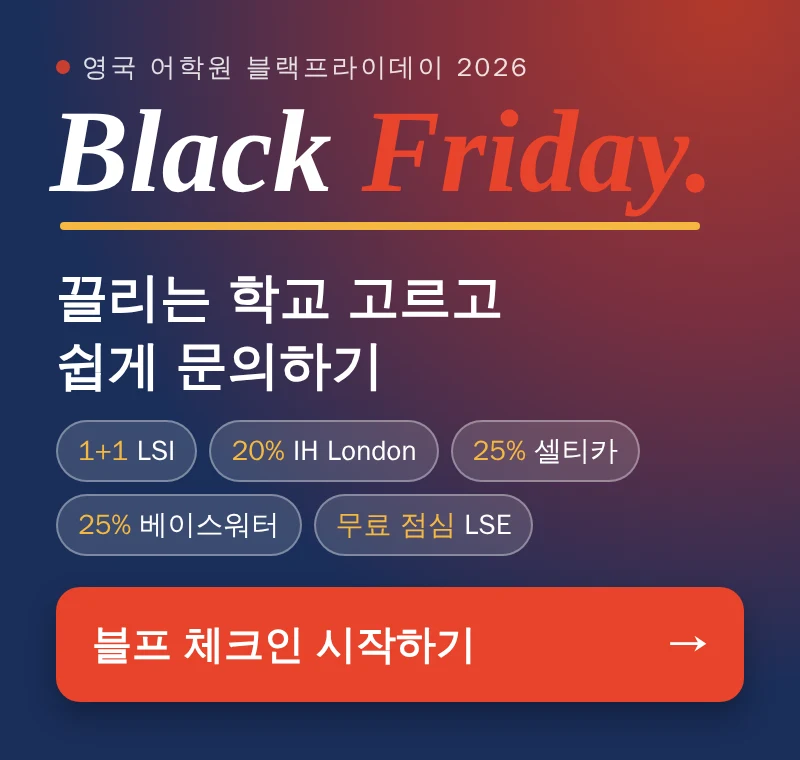
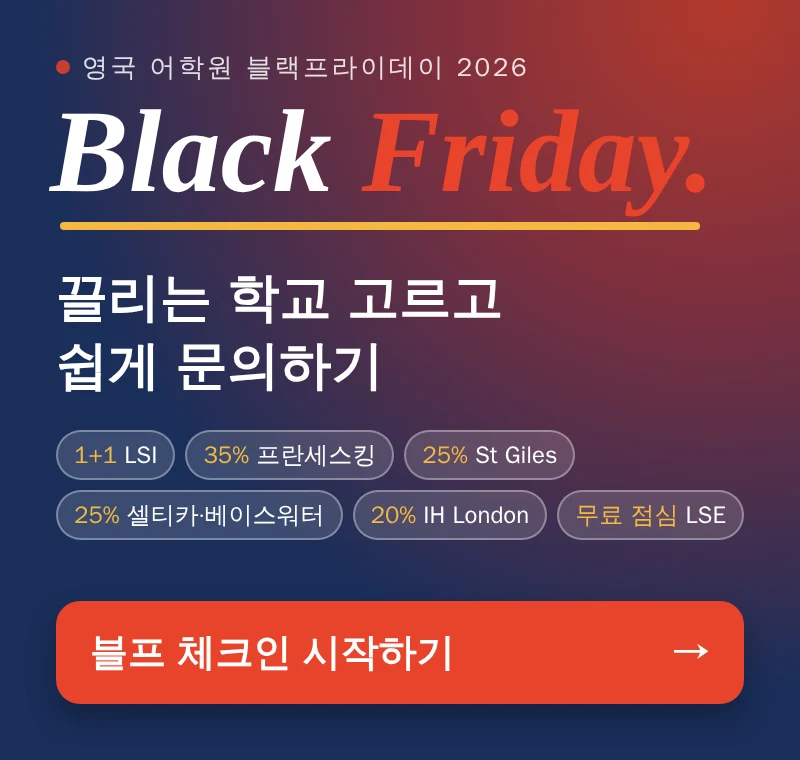
Black Friday check-in: add St Giles and Frances King
The note now covers seven schools. St Giles (20% up to 23 weeks, 25%
from 24 weeks, closes 11 December) and Frances King (35% on adult and
exam courses, closes 4 December) are added with their conditions in the
boarding-pass notes. Schools past their deadline move to the bottom and
are marked closed. Banners and the share image list all seven.

Claude-Session: https://claude.ai/code/session_01PvHDLwAHS7dQTTP1cZEh3g

Changed region(s): [[0.0625, 0.5447, 0.9375, 0.9382]]

diff --git a/black-friday/index.html b/black-friday/index.html
@@ -5,11 +5,11 @@
 <meta name="viewport" content="width=device-width,initial-scale=1,viewport-fit=cover">
 <meta name="robots" content="noindex,nofollow">
 <meta name="theme-color" content="#1A2E5A">
-<meta name="description" content="LSI·IH London·셀티카·베이스워터·런던 스쿨 오브 잉글리시 2026 블랙프라이데이 혜택 중 나에게 맞는 곳을 고르고, 상황을 남기면 신촌점이 조건을 확인해 드려요.">
+<meta name="description" content="LSI·St Giles·IH London·프란세스킹·셀티카·베이스워터·런던 스쿨 오브 잉글리시 2026 블랙프라이데이 혜택 중 나에게 맞는 곳을 고르고, 상황을 남기면 신촌점이 조건을 확인해 드려요.">
 <meta property="og:type" content="website">
 <meta property="og:url" content="https://uksinchon.com/black-friday/">
 <meta property="og:title" content="Black Friday, UK. 🏷 영국 어학원 블프 체크인">
-<meta property="og:description" content="1+1부터 25% 할인까지, 5개 어학원 블프 혜택 중 내 기간·시작 시기·숙소에 맞는 곳을 1분 만에 골라보세요. 영국유학센터 신촌점">
+<meta property="og:description" content="1+1부터 35% 할인까지, 7개 어학원 블프 혜택 중 내 기간·시작 시기·숙소에 맞는 곳을 1분 만에 골라보세요. 영국유학센터 신촌점">
 <meta property="og:image" content="https://uksinchon.com/black-friday/og.png">
 <meta property="og:image:width" content="1200">
 <meta property="og:image:height" content="630">
@@ -432,20 +432,28 @@ button.pf:hover,button.pf:focus-visible{background:#F2F4FA}
   // 블랙프라이데이 어학원 정보 (신촌 UK 노트 '영국 어학원 블랙프라이데이 프로모션 2026' 기준)
   const KST_TODAY = (() => { const d = new Date(Date.now() + 9*3600e3); return Date.UTC(d.getUTCFullYear(), d.getUTCMonth(), d.getUTCDate()); })();
   const dday = iso => { const [y,m,d] = iso.split('-').map(Number); const n = Math.round((Date.UTC(y,m-1,d) - KST_TODAY)/864e5); return n < 0 ? '마감' : n === 0 ? 'D-DAY' : 'D-' + n; };
-  const SCHOOLS = [
+  const SCHOOL_LIST = [
     {e:'🎁',l:'LSI London',perk:'1+1 · 결제 주수만큼 무료 수업',due:'2026-11-27',dueTxt:'11월 27일(금)',code:'LHR',city:'LONDON',r:'1+1이면 4주 결제로 8주 공부, 혜택이 커요 🎁'},
     {e:'🎓',l:'IH London',perk:'일반영어·시험준비·영어교사 20% (주니어 10%)',due:'2026-11-30',dueTxt:'11월 30일',code:'LHR',city:'COVENT GARDEN',r:'코벤트가든의 전통 있는 어학원이에요 🎓'},
     {e:'🏴',l:'셀티카 (카디프)',perk:'오전 과정 학비 25%',due:'2026-11-30',dueTxt:'11월 30일',code:'CWL',city:'CARDIFF',r:'물가·기숙사비까지 아끼는 가성비 선택이에요 🏴'},
     {e:'🏙',l:'베이스워터',perk:'수업료 25% · 커리어 준비과정 20%',due:'2026-11-30',dueTxt:'11월 30일',code:'LHR',city:'LONDON · 5 CITIES',r:'런던부터 본머스까지 도시를 고를 수 있어요 🏙'},
+    {e:'🌳',l:'프란세스킹 (Frances King)',perk:'성인 영어·시험준비 35% · 가장 큰 할인율',due:'2026-12-04',dueTxt:'12월 4일',code:'LHR',city:'KENSINGTON',r:'하이드파크 옆 켄싱턴, 할인율이 가장 커요 🌳'},
     {e:'🍽',l:'런던 스쿨 오브 잉글리시',perk:'최대 2주 점심·음료 무료 (할인 아님)',due:'2026-12-11',dueTxt:'12월 11일',code:'LHR',city:'LONDON',r:'시설과 학생 교류를 중시한다면 좋은 선택이에요 🍽'},
+    {e:'🎭',l:'세인트 자일스 (St Giles)',perk:'1~23주 20% · 24주 이상 25%',due:'2026-12-11',dueTxt:'12월 11일',code:'LHR',city:'LONDON · BRIGHTON · CAMBRIDGE',r:'단기도 장기도 할인되는 게 장점이에요 🎭'}
+  ];
+  // 마감 안 된 학교를 마감 빠른 순으로 먼저, 마감된 학교는 맨 아래로
+  const SCHOOLS = [
+    ...SCHOOL_LIST.filter(x => dday(x.due) !== '마감'),
+    ...SCHOOL_LIST.filter(x => dday(x.due) === '마감'),
     {e:'🤔',l:'아직 못 골랐어요',perk:'내 조건에 맞는 곳을 추천받을래요',code:'LHR',city:'UNITED KINGDOM',wide:true,r:'걱정 마세요, 조건 듣고 골라 드릴게요 🙌'}
   ];
+  const OPEN = SCHOOL_LIST.filter(x => dday(x.due) !== '마감');
 
   const STEPS = [
     { key:'school', tag:'SCHOOL', name:'관심 어학원', sticker:'🏷',
       scene:{bg:'#14141F',a:'#E8432B',b:'#F5B841',tint:'#FFE8E2',ax:'-8vmax',ay:'6vmax',bx:'4vmax',by:'-2vmax'},
-      title:'블프 혜택 중\n가장 끌리는 곳은?', hint:'하나만 골라주세요 · 마감 빠른 순', layout:'list',
-      opts: SCHOOLS.map(x => ({...x, s: x.due ? `${x.perk} · ${x.dueTxt} 마감 (${dday(x.due)})` : x.perk}))},
+      title:'블프 혜택 중\n가장 끌리는 곳은?', hint:'하나만 골라주세요 · 마감 빠른 순 · 7개 어학원', layout:'list',
+      opts: SCHOOLS.map(x => ({...x, s: !x.due ? x.perk : dday(x.due) === '마감' ? `${x.perk} · ${x.dueTxt} 마감됨` : `${x.perk} · ${x.dueTxt} 마감 (${dday(x.due)})`}))},
     { key:'why', tag:'WHY', name:'고른 이유', sticker:'💡',
       scene:{bg:'#E8432B',a:'#F5B841',b:'#9E1F10',tint:'#FFE8E2',ax:'4vmax',ay:'10vmax',bx:'-4vmax',by:'-6vmax'},
       title:'그 학교가\n끌린 이유는요?', hint:'가장 큰 이유 하나만요', layout:'list',
@@ -531,6 +539,10 @@ button.pf:hover,button.pf:focus-visible{background:#F2F4FA}
     if (sc.l === '런던 스쿨 오브 잉글리시' && st && st.ym && st.ym !== '2026-12') out.push('점심 무료 혜택은 11월 30일~12월 14일 사이에 시작해야 받을 수 있어요.');
     if (sc.l === '런던 스쿨 오브 잉글리시' && st && st.ym === '2026-12') out.push('점심 무료 혜택을 받으려면 12월 14일까지 수업을 시작해야 해요.');
     if (sc.l === '셀티카 (카디프)' && st && st.ym && st.ym >= '2027-09') out.push('셀티카 할인은 2027년 8월 30일까지 시작하는 과정에만 적용돼요.');
+    if (sc.l.startsWith('세인트 자일스') && du && du.w) out.push(du.w >= 24 ? `${du.w}주 등록이면 25% 할인 구간이에요.` : '23주까지는 20%, 24주 이상 등록하면 25% 할인이에요.');
+    if (sc.l.startsWith('세인트 자일스')) out.push('1:1 과정·CELTA·패밀리 과정 등은 할인에서 제외돼요.');
+    if (sc.l.startsWith('프란세스킹')) out.push('등록 시 등록금 £105와 보증금(과정만 £250, 숙소 포함 £600)을 내야 할인이 적용돼요.');
+    if (sc.l.startsWith('프란세스킹') && st && (st.ym === '2027-07' || st.ym === '2027-08')) out.push('프란세스킹 할인은 2027년 여름(7/5~8/27) 시작 과정에는 적용되지 않아요.');
     if (du && du.w > 24) out.push('6개월을 넘는 어학연수는 단기학생비자(최대 11개월)가 필요해요.');
     return out;
   }
@@ -759,8 +771,8 @@ button.pf:hover,button.pf:focus-visible{background:#F2F4FA}
     return `<div class="view intro">
       <div class="brand"><span class="live"></span>영국유학센터 신촌점 · 블랙프라이데이 어학원 체크인</div>
       <h1 class="hello bf" aria-label="Black Friday, UK."><span class="ln" aria-hidden="true">${chars('Black')}</span><span class="ln uk" aria-hidden="true">${chars('Friday.')}<i class="wave">🏷</i><svg class="swoosh" viewBox="0 0 200 24" preserveAspectRatio="none"><path d="M4 17 C 60 5, 130 4, 196 12"/></svg></span></h1>
-      <p class="lead">5개 어학원 블프 혜택 중 <b>끌리는 곳을 고르고</b><br>내 상황을 남겨주시면 조건을 확인해 드릴게요.</p>
-      <div class="pills"><span class="pill">⏱ 약 1분</span><span class="pill">🏷 5개 어학원</span><span class="pill">⏰ 첫 마감 ${SCHOOLS[0].dueTxt} · ${dday(SCHOOLS[0].due)}</span></div>
+      <p class="lead">7개 어학원 블프 혜택 중 <b>끌리는 곳을 고르고</b><br>내 상황을 남겨주시면 조건을 확인해 드릴게요.</p>
+      <div class="pills"><span class="pill">⏱ 약 1분</span><span class="pill">🏷 7개 어학원</span>${OPEN.length ? `<span class="pill">⏰ 가장 빠른 마감 ${OPEN[0].dueTxt} · ${dday(OPEN[0].due)}</span>` : '<span class="pill">⏰ 블프 등록 마감</span>'}</div>
       <button class="cta" data-act="start">블프 체크인 시작하기
         <svg width="20" height="20" viewBox="0 0 24 24" fill="none" stroke="currentColor" stroke-width="2.8" stroke-linecap="round" stroke-linejoin="round"><path d="M5 12h14M13 6l6 6-6 6"/></svg>
       </button>
@@ -1075,7 +1087,7 @@ button.pf:hover,button.pf:focus-visible{background:#F2F4FA}
     if (!on) { if (f) { finished(anim(f, [{opacity:1},{opacity:0}], {duration:300, fill:'forwards'})).then(()=>f.remove()); } return; }
     if (f) return;
     f = document.createElement('div'); f.className = 'floaties'; f.setAttribute('aria-hidden','true');
-    const items = [['🎁','1+1 LSI','5%','10%'],['🏷','25% OFF','58%','15%'],['🎓','20% OFF','54%','88%'],['🍽','Free lunch','6%','84%']];
+    const items = [['🎁','1+1 LSI','5%','10%'],['🏷','35% OFF','58%','15%'],['🎓','20% OFF','54%','88%'],['🍽','Free lunch','6%','84%']];
     f.innerHTML = items.map(([e,t,x,y],k)=>`<span style="left:${x};top:${y};--d0:${1.3 + k*.15}s;--d1:${-k*1.6}s"><em>${e}</em>${t}</span>`).join('');
     app.insertBefore(f, app.querySelector('.shell'));
   }
